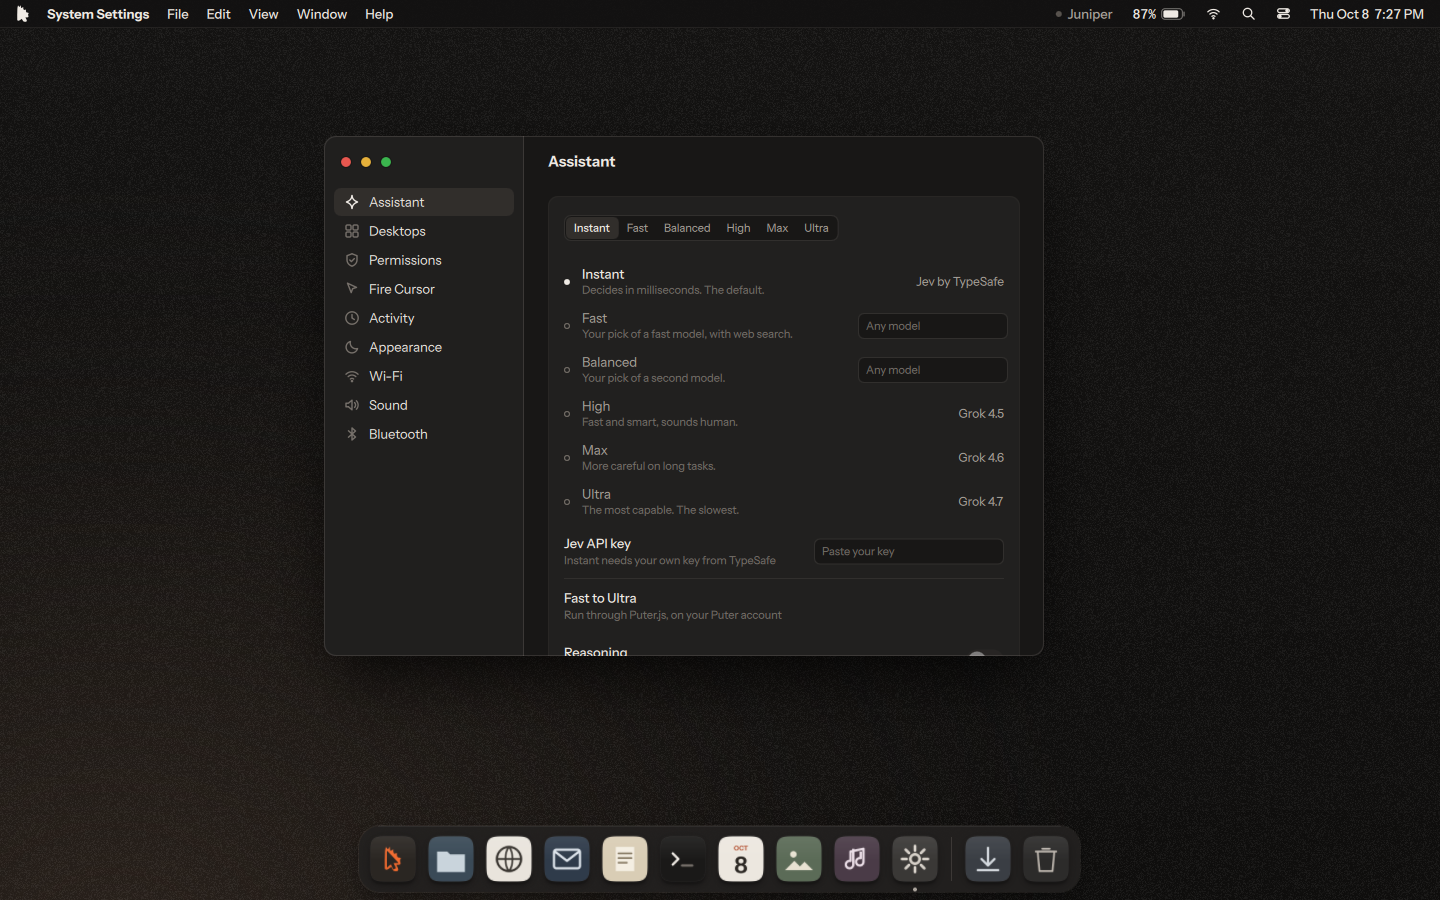
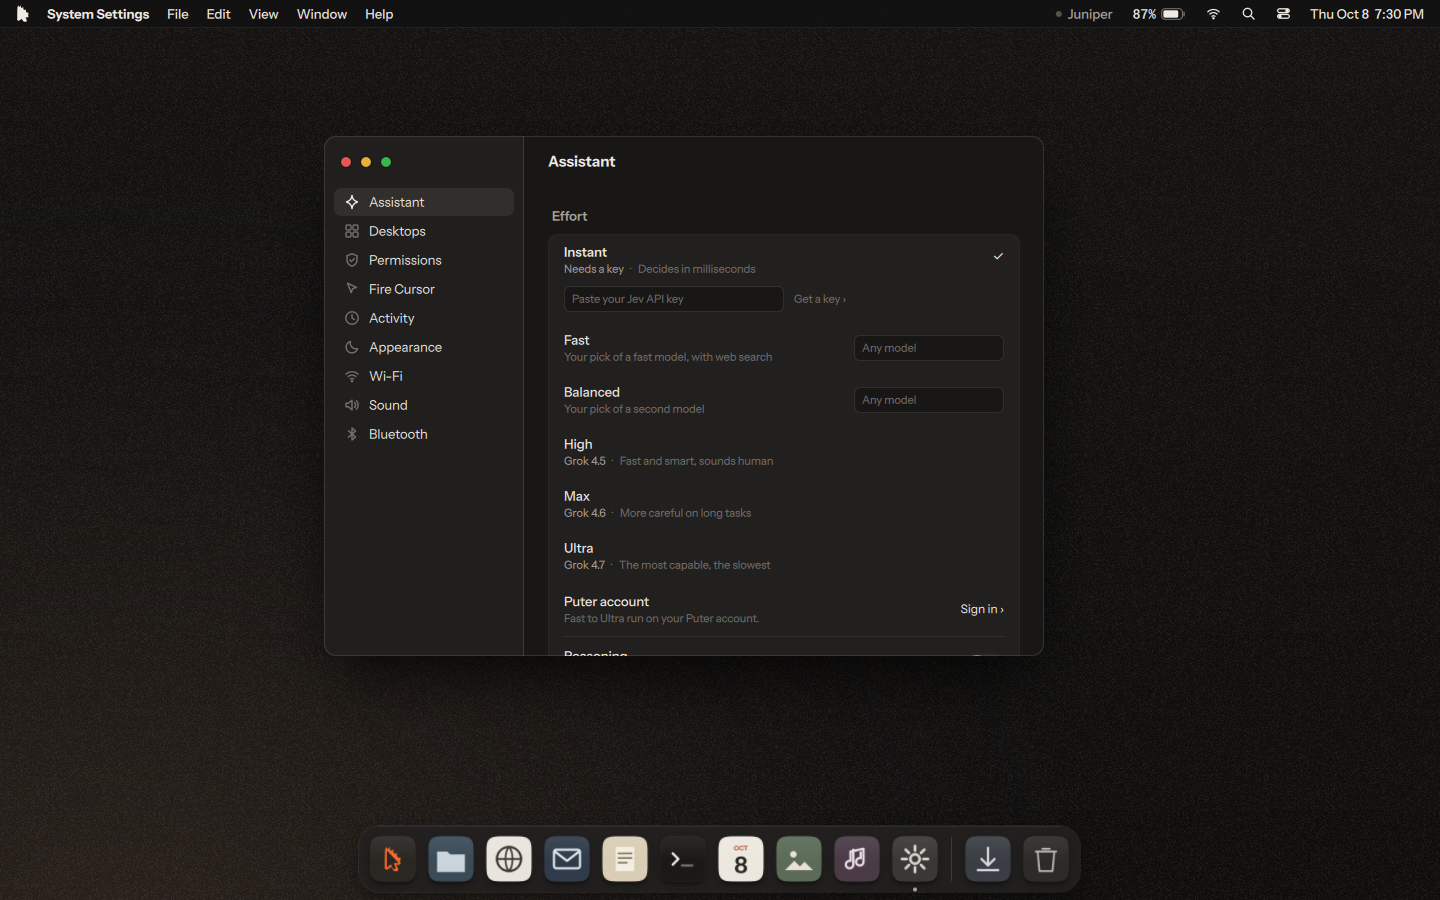
Settings: Effort as one selectable list, Jev key in the Instant row, Puter account row
Drops the segmented picker and the radio dots; the selected tier shows a check.
Model names sit under each tier. Safety links to the per-app ask rules instead
of a toggle that contradicted them.

Claude-Session: https://claude.ai/code/session_01B11KmgS7KywUE1jfuntsyj

diff --git a/shell/apps/Settings.qml b/shell/apps/Settings.qml
@@ -101,23 +101,14 @@ Item {
                 Group {
                     id: brain
                     title: "Effort"
-                    // Jev answers instantly; each step up trades speed for a bigger model
+                    // one list, one choice: Jev answers instantly, each step down trades speed for a bigger model
                     readonly property var tiers: [
-                        { name: "Instant", model: "Jev by TypeSafe", hint: "Decides in milliseconds. The default." },
-                        { name: "Fast", pick: "modelFast", hint: "Your pick of a fast model, with web search." },
-                        { name: "Balanced", pick: "modelBalanced", hint: "Your pick of a second model." },
-                        { name: "High", model: "Grok 4.5", hint: "Fast and smart, sounds human." },
-                        { name: "Max", model: "Grok 4.6", hint: "More careful on long tasks." },
-                        { name: "Ultra", model: "Grok 4.7", hint: "The most capable. The slowest." } ]
-                    Item {
-                        width: parent ? parent.width : 0; height: 64
-                        Segmented {
-                            x: 16; anchors.verticalCenter: parent.verticalCenter
-                            options: brain.tiers.map(function (t) { return t.name; })
-                            current: Os.settings.effort
-                            onPicked: (i) => Os.settings.effort = i
-                        }
-                    }
+                        { name: "Instant", model: "Jev by TypeSafe", hint: "Decides in milliseconds" },
+                        { name: "Fast", pick: "modelFast", hint: "Your pick of a fast model, with web search" },
+                        { name: "Balanced", pick: "modelBalanced", hint: "Your pick of a second model" },
+                        { name: "High", model: "Grok 4.5", hint: "Fast and smart, sounds human" },
+                        { name: "Max", model: "Grok 4.6", hint: "More careful on long tasks" },
+                        { name: "Ultra", model: "Grok 4.7", hint: "The most capable, the slowest" } ]
                     Repeater {
                         model: brain.tiers
                         Item {
@@ -125,51 +116,72 @@ Item {
                             required property var modelData
                             required property int index
                             readonly property bool on: Os.settings.effort === index
-                            width: parent ? parent.width : 0; height: 44
-                            Rectangle { width: parent.width - 32; x: 16; height: 0.5; color: Theme.line }
-                            Rectangle { x: 16; width: 6; height: 6; radius: 3; anchors.verticalCenter: parent.verticalCenter; color: tr.on ? Theme.text : "transparent"; border.color: Theme.text3; border.width: tr.on ? 0 : 1 }
+                            readonly property bool jev: index === 0
+                            readonly property bool needsKey: jev && !Os.settings.jevKey
+                            property string aiName: modelData.name + " effort"; property string aiRole: "radio"
+                            function aiActivate() { Os.settings.effort = index; }
+                            width: parent ? parent.width : 0; height: jev ? 88 : 52
+                            Rectangle { visible: tr.index > 0; width: parent.width - 32; x: 16; height: 0.5; color: Theme.line }
+                            MouseArea { anchors.fill: parent; onClicked: tr.aiActivate() }
                             Column {
-                                x: 34; anchors.verticalCenter: parent.verticalCenter; spacing: 1
-                                Text { text: tr.modelData.name; color: tr.on ? Theme.text : Theme.text2; font.family: Theme.font; font.pixelSize: 13; font.weight: tr.on ? Font.Medium : Font.Normal }
-                                Text { text: tr.modelData.hint; color: Theme.text3; font.family: Theme.font; font.pixelSize: 11 }
+                                x: 16; y: 10; spacing: 2
+                                Text { text: tr.modelData.name; color: Theme.text; font.family: Theme.font; font.pixelSize: 13; font.weight: tr.on ? Font.DemiBold : Font.Medium }
+                                Row {
+                                    spacing: 6
+                                    Text { visible: !!tr.modelData.model; text: tr.needsKey ? "Needs a key" : tr.modelData.model || ""; color: Theme.text2; font.family: Theme.font; font.pixelSize: 11 }
+                                    Text { visible: !!tr.modelData.model; text: "·"; color: Theme.text3; font.family: Theme.font; font.pixelSize: 11 }
+                                    Text { text: tr.modelData.hint; color: Theme.text3; font.family: Theme.font; font.pixelSize: 11 }
+                                }
                             }
-                            // named tiers show their model; the open ones take any model you type
-                            Text {
-                                visible: !tr.modelData.pick
-                                anchors.right: parent.right; anchors.rightMargin: 16; anchors.verticalCenter: parent.verticalCenter
-                                text: tr.modelData.model || ""; color: Theme.text2; font.family: Theme.font; font.pixelSize: 12
+                            // Jev is bring-your-own-key: the key lives in its row
+                            Row {
+                                visible: tr.jev; x: 16; y: 52; spacing: 10
+                                Rectangle {
+                                    width: 220; height: 26; radius: 6; color: Theme.surface0; border.color: jk.input.activeFocus ? Theme.line3 : Theme.hairline; border.width: 1
+                                    Field {
+                                        id: jk; x: 8; width: parent.width - 16; height: parent.height; pixelSize: 11
+                                        label: "Jev API key"; placeholder: "Paste your Jev API key"
+                                        input.echoMode: TextInput.Password
+                                        Component.onCompleted: text = Os.settings.jevKey
+                                        onTextChanged: Os.settings.jevKey = text.trim()
+                                    }
+                                }
+                                Text {
+                                    property string aiName: "Get a Jev key"; property string aiRole: "link"
+                                    function aiActivate() { Qt.openUrlExternally("https://typesafe.ai"); }
+                                    anchors.verticalCenter: parent.verticalCenter
+                                    text: "Get a key ›"; color: Theme.text3; font.family: Theme.font; font.pixelSize: 11
+                                    MouseArea { anchors.fill: parent; anchors.margins: -4; cursorShape: Qt.PointingHandCursor; onClicked: parent.aiActivate() }
+                                }
                             }
-                            Rectangle {
-                                visible: !!tr.modelData.pick
-                                anchors.right: parent.right; anchors.rightMargin: 12; anchors.verticalCenter: parent.verticalCenter
-                                width: 150; height: 26; radius: 6; color: Theme.surface0; border.color: mf.input.activeFocus ? Theme.line3 : Theme.hairline; border.width: 1
-                                Field {
-                                    id: mf; x: 8; width: parent.width - 16; height: parent.height; pixelSize: 11
-                                    label: tr.modelData.name + " model"; placeholder: "Any model"
-                                    Component.onCompleted: if (tr.modelData.pick) text = Os.settings[tr.modelData.pick]
-                                    onTextChanged: if (tr.modelData.pick) Os.settings[tr.modelData.pick] = text.trim()
+                            // the right side holds the check, or the field for an open tier
+                            Row {
+                                anchors.right: parent.right; anchors.rightMargin: 16; y: tr.jev ? 14 : (parent.height - height) / 2; spacing: 10
+                                Text { visible: tr.on; anchors.verticalCenter: parent.verticalCenter; text: "✓"; color: Theme.text; font.family: Theme.font; font.pixelSize: 13 }
+                                Rectangle {
+                                    visible: !!tr.modelData.pick
+                                    width: 150; height: 26; radius: 6; color: Theme.surface0; border.color: mf.input.activeFocus ? Theme.line3 : Theme.hairline; border.width: 1
+                                    Field {
+                                        id: mf; x: 8; width: parent.width - 16; height: parent.height; pixelSize: 11
+                                        label: tr.modelData.name + " model"; placeholder: "Any model"
+                                        Component.onCompleted: if (tr.modelData.pick) text = Os.settings[tr.modelData.pick]
+                                        onTextChanged: if (tr.modelData.pick) Os.settings[tr.modelData.pick] = text.trim()
+                                    }
                                 }
                             }
                         }
                     }
                     Rectangle { width: parent.width - 32; x: 16; height: 0.5; color: Theme.line }
-                    // Jev is bring-your-own-key; the bigger tiers go through Puter.js
+                    // Fast to Ultra go through Puter.js, signed in as the user
                     Row2 {
-                        title: "Jev API key"
-                        hint: Os.settings.jevKey ? "Saved. Instant uses your TypeSafe key" : "Instant needs your own key from TypeSafe"
-                        Rectangle {
-                            width: 190; height: 26; radius: 6; color: Theme.surface0; border.color: jk.input.activeFocus ? Theme.line3 : Theme.hairline; border.width: 1
-                            Field {
-                                id: jk; x: 8; width: parent.width - 16; height: parent.height; pixelSize: 11
-                                label: "Jev API key"; placeholder: "Paste your key"
-                                input.echoMode: TextInput.Password
-                                Component.onCompleted: text = Os.settings.jevKey
-                                onTextChanged: Os.settings.jevKey = text.trim()
-                            }
+                        title: "Puter account"; hint: "Fast to Ultra run on your Puter account."
+                        Text {
+                            property string aiName: Os.settings.puterUser ? "Puter account" : "Sign in to Puter"; property string aiRole: "link"
+                            function aiActivate() { if (!Os.settings.puterUser) Qt.openUrlExternally("https://puter.com"); }
+                            text: Os.settings.puterUser || "Sign in ›"; color: Os.settings.puterUser ? Theme.text2 : Theme.text; font.family: Theme.font; font.pixelSize: 12
+                            MouseArea { anchors.fill: parent; anchors.margins: -4; cursorShape: Qt.PointingHandCursor; onClicked: parent.aiActivate() }
                         }
                     }
-                    Rectangle { width: parent.width - 32; x: 16; height: 0.5; color: Theme.line }
-                    Row2 { title: "Fast to Ultra"; hint: "Run through Puter.js, on your Puter account" }
                     Rectangle { width: parent.width - 32; x: 16; height: 0.5; color: Theme.line }
                     Row2 {
                         title: "Reasoning"
@@ -178,10 +190,21 @@ Item {
                                  onToggled: (c) => Os.settings.reasoning = c }
                     }
                 }
+                Item {
+                    width: parent.width; height: 1
+                    Text { x: 4; y: -40; text: "Higher effort is slower and may cost more."; color: Theme.text3; font.family: Theme.font; font.pixelSize: 11 }
+                }
                 Group {
+                    id: safety
                     title: "Safety"
-                    Row2 { title: "Ask before risky actions"; hint: "Deleting, sending, paying. The OS asks you, never the AI."
-                           Toggle { label: "Ask before risky actions"; checked: Os.settings.askBeforeRisky; onToggled: (c) => Os.settings.askBeforeRisky = c } }
+                    Row2 {
+                        id: askLink
+                        title: "When to ask, per app"; hint: "Deleting, sending, paying and sharing always ask"
+                        property string aiName: title; property string aiRole: "link"
+                        function aiActivate() { app.scrollTo(perApp.y - 40); }
+                        Text { text: "›"; color: Theme.text2; font.family: Theme.font; font.pixelSize: 15 }
+                        MouseArea { parent: askLink; anchors.fill: parent; cursorShape: Qt.PointingHandCursor; onClicked: askLink.aiActivate() }
+                    }
                     Rectangle { width: parent.width - 32; x: 16; height: 0.5; color: Theme.line }
                     Row2 { title: "Pause or stop instantly"; hint: "Works from anywhere, even mid-click"; Kbd { k: "⌃ Space" } Kbd { k: "Esc" } }
                 }

diff --git a/shell/components/Os.qml b/shell/components/Os.qml
@@ -27,6 +27,7 @@ QtObject {
         property string modelBalanced: ""
         property bool reasoning: false
         property string jevKey: ""             // Jev is bring-your-own-key (TypeSafe)
+        property string puterUser: ""          // signed-in Puter name; Fast to Ultra run through Puter.js
         property string appTrust2: ""         // per app: "all" | "risky" (default) | "never"
     }
     // Risky means deleting, sending, paying or sharing; those always ask, whatever this says.

diff --git a/tools/qml_capture.py b/tools/qml_capture.py
@@ -252,7 +252,7 @@ elif scene == "desktops":
 elif scene == "effort":
     # Settings › Assistant: the effort picker, Jev (Instant) by default
     at(300, lambda: call("launch", "settings"))
-    at(1400, lambda: call("settingsScroll", 120))
+    at(1400, lambda: call("settingsScroll", 82))
     still("settings-effort", 2300)
     stop(2600)
 elif scene == "panels":
